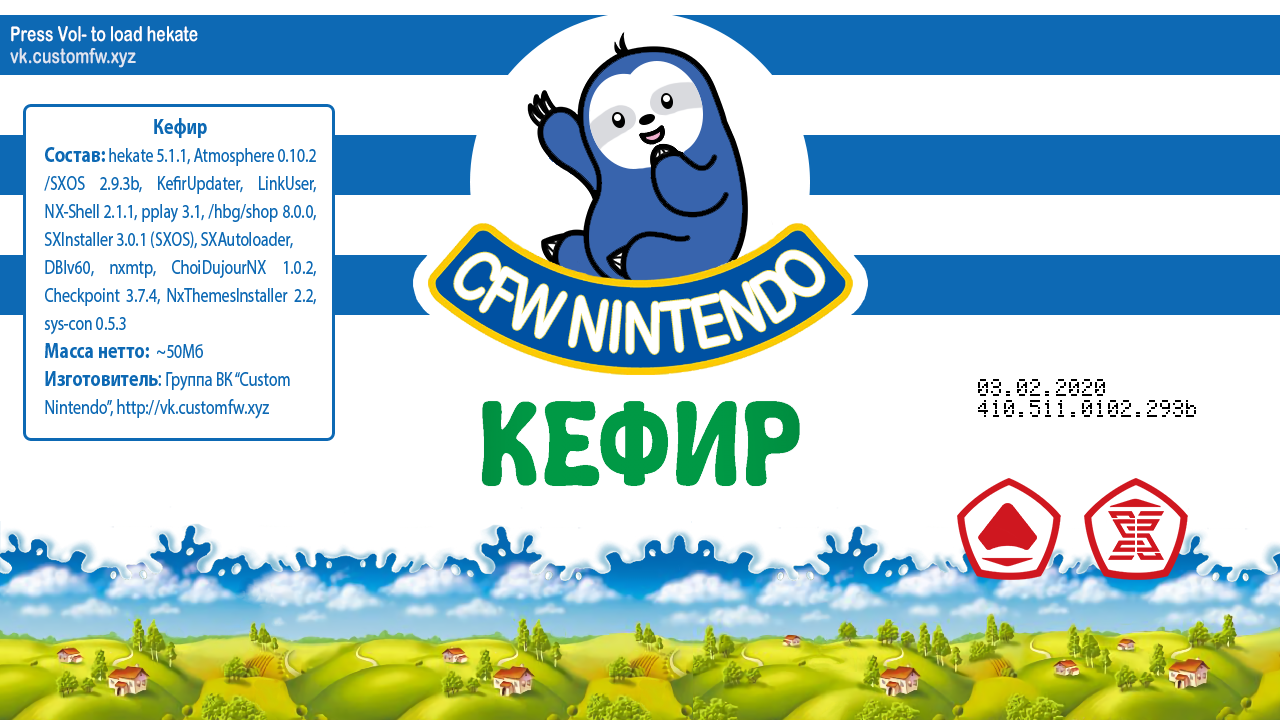
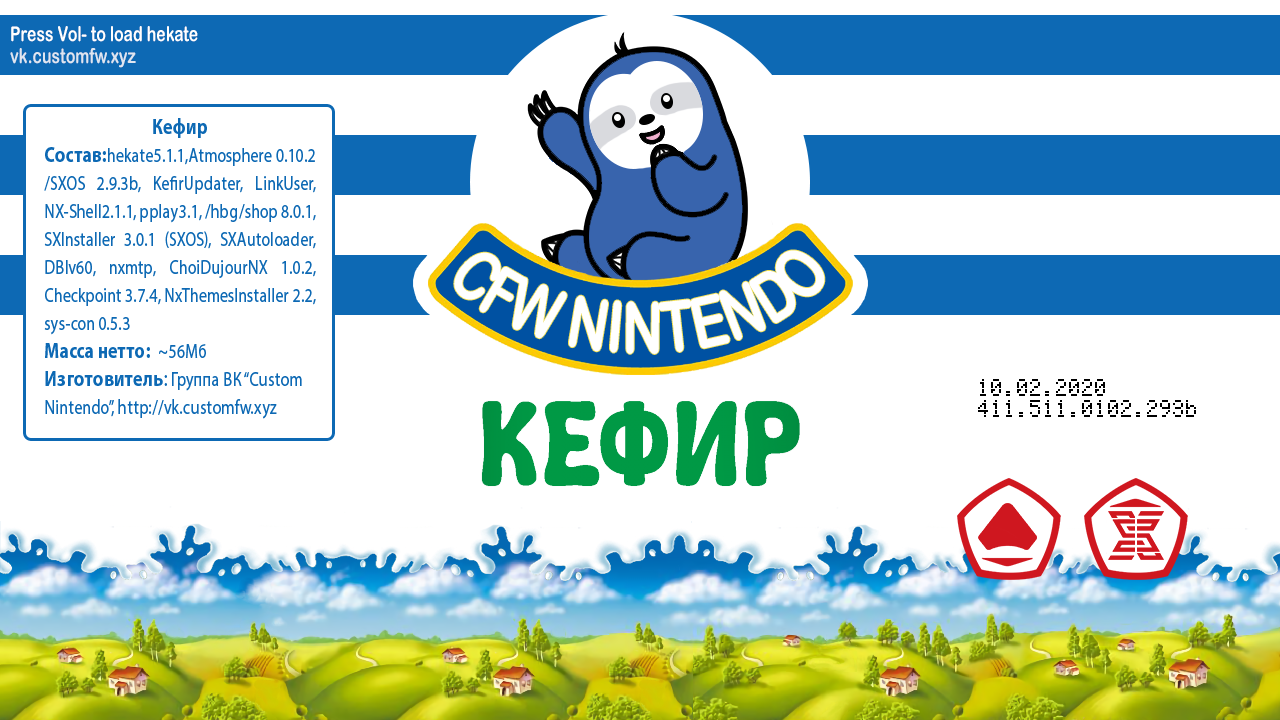
kefir411

Changed region(s): [[0.0312, 0.1528, 0.25, 0.4583], [0.0312, 0.4583, 0.25, 0.5806], [0.75, 0.5194, 0.7812, 0.55]]

diff --git a/_pages/kefir.md b/_pages/kefir.md
@@ -29,7 +29,6 @@ ____
 * [hekate](https://github.com/CTCaer/hekate/releases/latest){:target="_blank"} и [ACID-патчи для неё](https://github.com/Joonie86/hekate/releases/latest){:target="_blank"}
 * Homebrew 
   * [Kefir Updater](https://github.com/rashevskyv/kefir-updater/releases){:target="_blank"} - программа для обновления kefir через интернет
-  * [mercury](https://github.com/team-mercure/mercury/releases){:target="_blank"} - проприетарный файловый менеджер от blawar. Необходим для работы tinfoil
   * [NX-Shell](https://github.com/joel16/NX-Shell/releases/latest){:target="_blank"} - файловый менеджер
   * [Checkpoint](https://github.com/FlagBrew/Checkpoint/releases/latest){:target="_blank"} - программа для [резервного копирования и восстановления сейвов](checkpoint){:target="_blank"}
   * [Lockpick_RCM](https://github.com/shchmue/Lockpick_RCM/releases/latest){:target="_blank"} - программа для [дампа ключей приставки](backup-nand#часть-iii---дампим-ключи){:target="_blank"}
